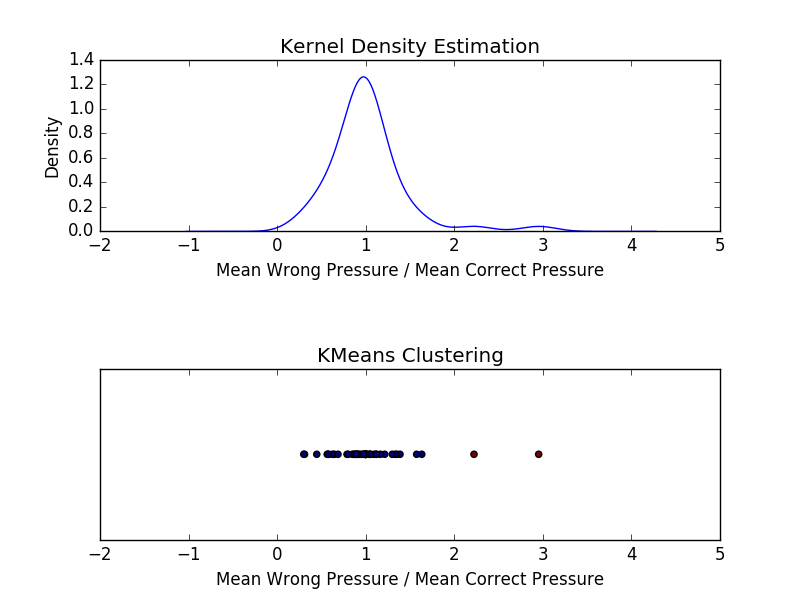
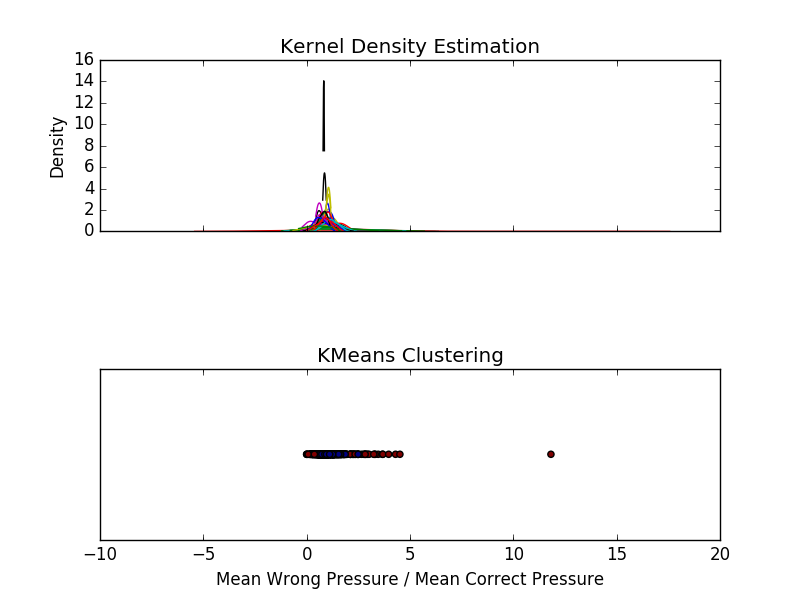
Automatically create individual files.

diff --git a/codes/Ananlysis/touchPressure/clustering_analyzer.py b/codes/Ananlysis/touchPressure/clustering_analyzer.py
@@ -10,6 +10,9 @@ class ClusteringAnalyzer:
         self.label_array = label_array
         self.data_array_1d = data_array
         
+        self.label_array = label_array[~np.isnan(data_array)]
+        self.data_array_1d = data_array[~np.isnan(data_array)]
+
         #make an array filled with zeros
         zero_arr = np.zeros(len(self.data_array_1d))
         #append the zero array to existing 1-dimensional data input
@@ -21,13 +24,18 @@ class ClusteringAnalyzer:
 
     def do_kmeans(self,n_clusters):
         self.X = np.array(self.data_matrix_2d)
-        self.kmeans = KMeans(n_clusters=n_clusters,random_state=0).fit(self.X)
+        if len(self.X) < 2:
+            self.kmeans = KMeans(n_clusters=1,random_state=0).fit(self.X)
+        else:
+            self.kmeans = KMeans(n_clusters=n_clusters,random_state=0).fit(self.X)
         return self.kmeans.labels_
 
     def draw_png(self,suptitle,subtitle_1,subtitle_2,xlabel,file_path):
         #rc('text',usetex = True)
         #rc('font',family = 'serif')
-
+        if len(self.data_array_1d) == 1:
+            return
+        
         #Kernel Density Estimation
         data_ser = pd.Series(self.data_array_1d)    #set Series
         ax1 = plt.subplot(211)  #ready first subplot (ax1 is axis)
@@ -36,6 +44,7 @@ class ClusteringAnalyzer:
         data_ser.plot.kde()     #calculate kernal density estimation
         
         #Clustering Scatter
+        self.check_and_swap()
         plt.subplot(212,sharex = ax1)   #reday second subplot with shared axis-X
         plt.title(subtitle_2)           #set subtitle
         plt.scatter(self.X[:,0],self.X[:,1],c=self.kmeans.labels_)  #scatter clustering result
@@ -47,13 +56,13 @@ class ClusteringAnalyzer:
         plt.suptitle(suptitle)  #set superior title
         plt.savefig(file_path)  #save figure as file_path
     
+        plt.clf()
+
     def write_result(self,file_path):
+        if len(self.data_array_1d) == 1:
+            return
         group_0 = self.label_array[self.kmeans.labels_ == 0]
         group_1 = self.label_array[self.kmeans.labels_ == 1]
-        print(self.label_array, self.kmeans.labels_)
-        print(self.kmeans.labels_ == 0)
-        print(group_0, group_1)
-        print(len(self.label_array),len(group_0), len(group_1))
 
         #make an array filled with zeros
         zero_arr = np.zeros(len(group_0))
@@ -81,3 +90,17 @@ class ClusteringAnalyzer:
             ,header='personId,groupId'
             ,comments=''
             )
+    
+    def check_and_swap(self):
+        group_0 = self.data_array_1d[self.kmeans.labels_ == 0]
+        group_1 = self.data_array_1d[self.kmeans.labels_ == 1]
+
+        #check whether group 0(contrl) has large pressure proportion than group 1(case)
+        if np.amin(group_0) >= np.amax(group_1):    #if so, do swap
+            self.do_swap()
+
+    def do_swap(self):
+        temp_labels = self.kmeans.labels_.copy()    #shallow copy of kmeans.labels_
+        self.kmeans.labels_[temp_labels == 0] = 1   #do swap
+        self.kmeans.labels_[temp_labels == 1] = 0
+        return

diff --git a/codes/Ananlysis/touchPressure/main.py b/codes/Ananlysis/touchPressure/main.py
@@ -20,22 +20,30 @@ handler = DataFrameHandler(loaded_df)
 
 sorted_unique_index = handler.get_unique_index()
 
-selected_df_by_index = handler.get_rows_by_index([1,6,1])
-
-true_answer_df = handler.filter_rows_by_correct(selected_df_by_index,True)
-false_anwer_df = handler.filter_rows_by_correct(selected_df_by_index,False)
-
-true_mean_pressure_df = handler.get_mean_touch_pressure(true_answer_df)
-false_mean_pressure_df = handler.get_mean_touch_pressure(false_anwer_df)
-
-proportion_person_array, proportion_data_array = handler.join_df_and_divide_pressure(true_mean_pressure_df,false_mean_pressure_df,'person')
-
-proportion_pressure_analyzer = ClusteringAnalyzer(proportion_person_array,proportion_data_array)
-print(proportion_pressure_analyzer.do_kmeans(2))
-
-#proportion_pressure_analyzer.draw_png(r'$\frac{\text{Mean Wrong Pressure}}{\text{Mean Ture Pressure}}$','test.png')
-proportion_pressure_analyzer.draw_png(
-    suptitle='',subtitle_1='Kernel Density Estimation',subtitle_2='KMeans Clustering'
-    ,xlabel='Mean Wrong Pressure / Mean Correct Pressure',file_path ='test.png'
-    )
-proportion_pressure_analyzer.write_result(file_path='test.csv')
+for index in sorted_unique_index:
+    index_list = index.tolist()
+    selected_df_by_index = handler.get_rows_by_index(index_list)
+    true_answer_df = handler.filter_rows_by_correct(selected_df_by_index,True)
+    false_answer_df = handler.filter_rows_by_correct(selected_df_by_index,False)
+    
+    true_mean_pressure_df = handler.get_mean_touch_pressure(true_answer_df)
+    false_mean_pressure_df = handler.get_mean_touch_pressure(false_answer_df)
+    
+    proportion_person_array, proportion_data_array = handler.join_df_and_divide_pressure(true_mean_pressure_df,false_mean_pressure_df,'person')
+    
+    if len(proportion_person_array) == 0:
+        continue
+    else:
+        png_path = '../../../files/clustering/pressureProportion/png/'+str(index_list[0])+'_'+str(index_list[1])+'_'+str(index_list[2])+'.png'
+        csv_path = '../../../files/clustering/pressureProportion/csv/'+str(index_list[0])+'_'+str(index_list[1])+'_'+str(index_list[2])+'.csv'
+        print(
+            'Clustering data from contentIndex[%d]:questionIndex[%d]:derivedQuestionIndex[%d]\t%d users'
+            %(index_list[0],index_list[1],index_list[2],len(proportion_person_array) )
+            )
+        proportion_pressure_analyzer = ClusteringAnalyzer(proportion_person_array,proportion_data_array)
+        proportion_pressure_analyzer.do_kmeans(n_clusters=2)
+        proportion_pressure_analyzer.draw_png(
+            suptitle='',subtitle_1='Kernel Density Estimation',subtitle_2='KMeans Clustering'
+            ,xlabel='Mean Wrong Pressure / Mean Correct Pressure',file_path =png_path
+            )
+        proportion_pressure_analyzer.write_result(file_path=csv_path)
